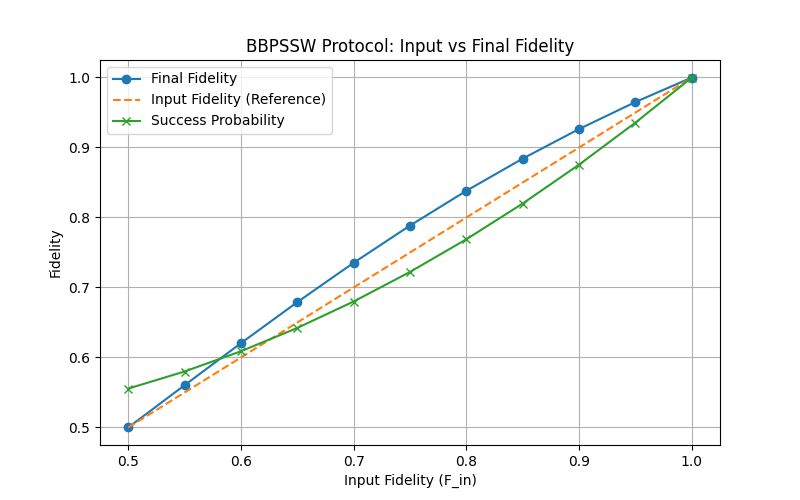
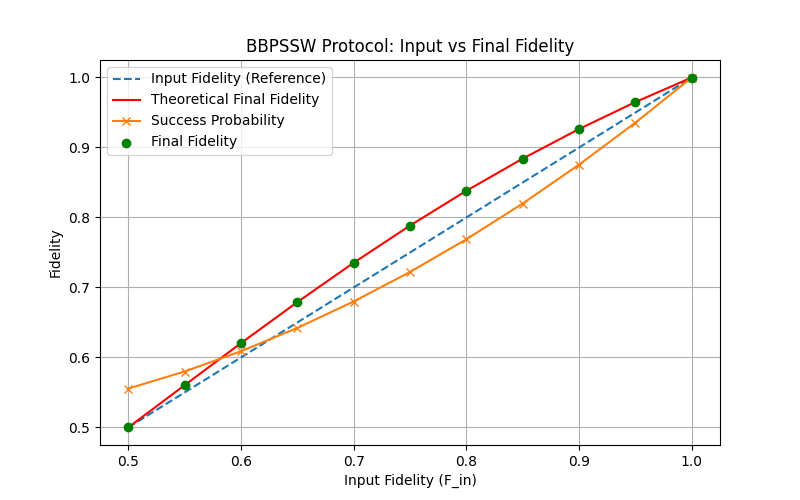
corrected plotting code

diff --git a/Codes/scripts/bbpssw.py b/Codes/scripts/bbpssw.py
@@ -145,10 +145,10 @@ if __name__ == "__main__":
 
     # Optionally, plot the results
     plt.figure(figsize=(8, 5))
-    plt.scatter(fin_values, fout, marker='o', label='Final Fidelity')
-    plt.plot(fin_values, f_out_theory, linestyle='-', label='Theoretical Final Fidelity', color='red')
     plt.plot(fin_values, fin_values, linestyle='--', label='Input Fidelity (Reference)')
+    plt.plot(fin_values, f_out_theory, linestyle='-', label='Theoretical Final Fidelity', color='red')
     plt.plot(fin_values, np.array(success_probs), marker='x', label='Success Probability')
+    plt.scatter(fin_values, fout, marker='o', label='Final Fidelity', zorder = 3, color='green')
     plt.xlabel('Input Fidelity (F_in)')
     plt.ylabel('Fidelity')
     plt.title('BBPSSW Protocol: Input vs Final Fidelity')
